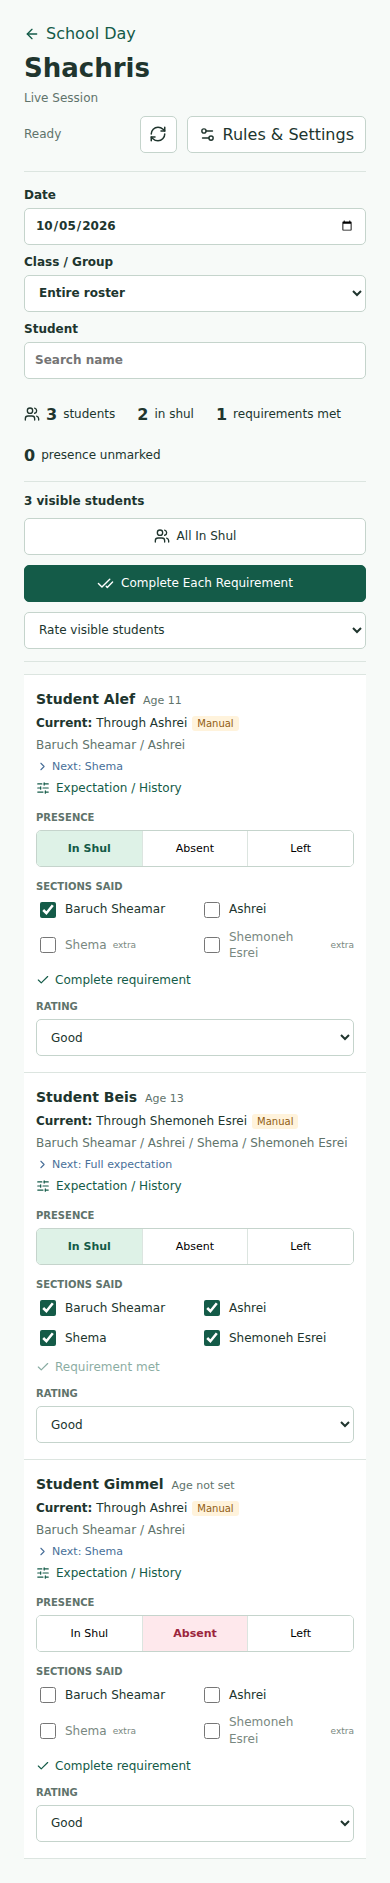
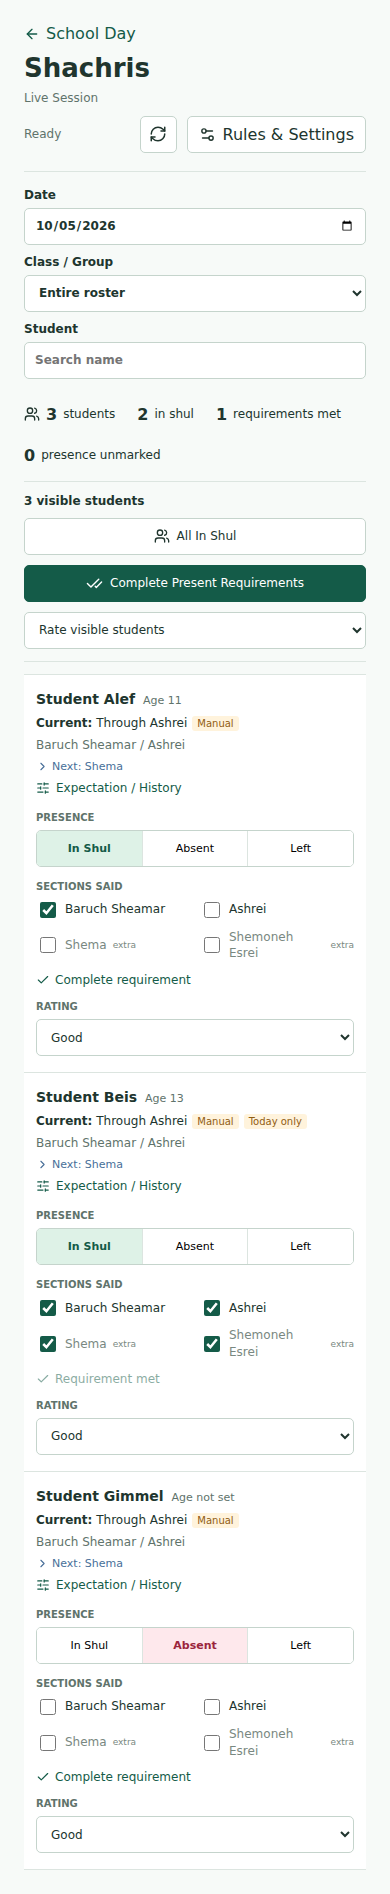
Limit Shachris bulk completion to present students and add temporary expectations

diff --git a/src/components/ShachrisWorkspace.tsx b/src/components/ShachrisWorkspace.tsx
@@ -2,7 +2,7 @@ import { useEffect, useRef, useState } from 'react'
 import { ArrowLeft, ArrowDown, ArrowUp, Check, CheckCheck, ChevronRight, Settings2, SlidersHorizontal, Users, X, RefreshCw } from 'lucide-react'
 import { supabase } from '../supabaseClient'
 import { loadShachrisProgression, loadShachrisSettings, openShachrisSession, saveShachrisExpectation, saveShachrisRecords, type ShachrisSession, type ShachrisSettings } from '../services/shachrisService'
-import { calculateAge, completeShachrisExpectation, hasMetShachrisExpectation, localDateKey, nextShachrisSection, type ShachrisAssignment, type ShachrisRecord } from '../utils/shachris'
+import { calculateAge, completePresentShachrisRequirements, completeShachrisExpectation, hasMetShachrisExpectation, localDateKey, nextShachrisSection, type ShachrisAssignment, type ShachrisRecord } from '../utils/shachris'
 import { isLeadershipRole } from '../utils/permissions'
 import ShachrisSettingsEditor from './ShachrisSettingsEditor'
 import './ShachrisWorkspace.css'
@@ -43,6 +43,7 @@ export default function ShachrisWorkspace({ students, classes, primaryClassIdsBy
   const [milestoneId, setMilestoneId] = useState('')
   const [requiredIds, setRequiredIds] = useState<string[]>([])
   const [reason, setReason] = useState('')
+  const [duration, setDuration] = useState<'today' | 'future'>('today')
   const [history, setHistory] = useState<ShachrisAssignment[]>([])
   const [historyLoading, setHistoryLoading] = useState(false)
   const [historyError, setHistoryError] = useState('')
@@ -56,6 +57,7 @@ export default function ShachrisWorkspace({ students, classes, primaryClassIdsBy
     && String(student.name || '').toLowerCase().includes(search.toLowerCase()))
   const visibleIds = new Set(visibleStudents.map(student => Number(student.id)))
   const visibleRecords = records.filter(record => visibleIds.has(record.student_id))
+  const presentRequirements = completePresentShachrisRequirements(visibleRecords)
   const locked = loading || saving || !canEdit || !session
   const today = date === localDateKey()
 
@@ -129,6 +131,7 @@ export default function ShachrisWorkspace({ students, classes, primaryClassIdsBy
     setMilestoneId(record.expectation.milestoneId)
     setRequiredIds([...record.expectation.sectionIds])
     setReason('')
+    setDuration('today')
   }
 
   async function changeExpectation(mode: 'manual' | 'default') {
@@ -139,12 +142,12 @@ export default function ShachrisWorkspace({ students, classes, primaryClassIdsBy
     setSaving(true)
     setError('')
     try {
-      const changed = await saveShachrisExpectation({ studentId: record.student_id, mode, milestoneId, sectionIds: requiredIds, reason, actorName, session, revision: record.revision })
+      const changed = await saveShachrisExpectation({ studentId: record.student_id, mode, milestoneId, sectionIds: requiredIds, reason, actorName, session, revision: record.revision, duration })
       setRecords(previous => previous.map(entry => entry.student_id === record.student_id ? changed.record : entry))
       setHistory(previous => [changed.assignment, ...previous])
       setMilestoneId(changed.record.expectation.milestoneId)
       setRequiredIds([...changed.record.expectation.sectionIds])
-      setStatus('Expectation saved for today and future sessions')
+      setStatus(duration === 'today' ? 'Expectation saved for today only' : 'Expectation saved for today and future sessions')
       setReason('')
     } catch (caught) {
       setError(errorMessage(caught))
@@ -171,7 +174,7 @@ export default function ShachrisWorkspace({ students, classes, primaryClassIdsBy
     {view === 'settings' && settings ? <ShachrisSettingsEditor key={settings.revision} settings={settings} canEdit={canManage} onSaved={saved => { setSettings(saved); setStatus('Settings saved. Existing sessions remain unchanged.') }} /> : <>
       <div className="sh-filters"><label>Date<input type="date" aria-label="Session date" value={date} max={localDateKey()} disabled={saving || loading} onChange={event => { if (event.target.value) { setDate(event.target.value); setEditingStudent(null) } }} /></label><label>Class / Group<select aria-label="Class or group" value={scope} disabled={saving} onChange={event => setScope(event.target.value)}><option value="all">Entire roster</option>{classes.map(entry => <option key={entry.id} value={`class:${entry.id}`}>{entry.name}</option>)}{instructionalGroups.filter(group => group.status !== 'archived').map(group => <option key={group.id} value={`group:${group.id}`}>{group.name || group.id}</option>)}</select></label><label className="sh-search">Student<input type="search" aria-label="Find student" placeholder="Search name" value={search} disabled={saving} onChange={event => setSearch(event.target.value)} /></label></div>
       <div className="sh-summary"><span><Users size={16} /><strong>{visibleRecords.length}</strong> students</span><span><strong>{visibleRecords.filter(record => record.presence === 'present').length}</strong> in shul</span><span><strong>{visibleRecords.filter(hasMetShachrisExpectation).length}</strong> requirements met</span><span><strong>{visibleRecords.filter(record => record.presence === 'unmarked').length}</strong> presence unmarked</span></div>
-      <div className="sh-bulk"><strong>{visibleRecords.length} visible students</strong><button className="sh-button" disabled={locked || !visibleRecords.length} onClick={() => void updateRecords(visibleRecords.filter(record => record.presence !== 'present').map(record => ({ ...record, presence: 'present' })))}><Users size={16} /> All In Shul</button><button className="sh-button sh-primary" disabled={locked || !visibleRecords.length} onClick={() => void updateRecords(visibleRecords.filter(record => !hasMetShachrisExpectation(record)).map(completeShachrisExpectation))}><CheckCheck size={17} /> Complete Each Requirement</button><select aria-label="Set rating for visible students" disabled={locked || !visibleRecords.length} value="" onChange={event => { const rating = event.target.value; void updateRecords(visibleRecords.map(record => ({ ...record, rating_id: rating }))) }}><option value="" disabled>Rate visible students</option>{config?.ratings.map(rating => <option key={rating.id} value={rating.id}>{rating.label}</option>)}</select></div>
+      <div className="sh-bulk"><strong>{visibleRecords.length} visible students</strong><button className="sh-button" disabled={locked || !visibleRecords.length} onClick={() => void updateRecords(visibleRecords.filter(record => record.presence !== 'present').map(record => ({ ...record, presence: 'present' })))}><Users size={16} /> All In Shul</button><button className="sh-button sh-primary" title="Complete requirements for visible students currently In Shul only" disabled={locked || !presentRequirements.length} onClick={() => void updateRecords(presentRequirements)}><CheckCheck size={17} /> Complete Present Requirements</button><select aria-label="Set rating for visible students" disabled={locked || !visibleRecords.length} value="" onChange={event => { const rating = event.target.value; void updateRecords(visibleRecords.map(record => ({ ...record, rating_id: rating }))) }}><option value="" disabled>Rate visible students</option>{config?.ratings.map(rating => <option key={rating.id} value={rating.id}>{rating.label}</option>)}</select></div>
       <div className="sh-roster" aria-busy={saving || loading}>
         <div className="sh-column-head"><span>Student / Expectation</span><span>Presence</span><span>Sections Said</span><span>Rating</span></div>
         {visibleStudents.map(student => {
@@ -180,7 +183,7 @@ export default function ShachrisWorkspace({ students, classes, primaryClassIdsBy
           const next = nextShachrisSection(config, record.expectation)
           const age = calculateAge(typeof student.date_of_birth === 'string' ? student.date_of_birth : null, date)
           return <article key={student.id} className="sh-student-row">
-            <div className="sh-student"><div className="sh-student-name">{student.name}<span>{age === null ? 'Age not set' : `Age ${age}`}</span></div><div className="sh-expectation"><strong>Current:</strong> {record.expectation.label}{record.expectation.source === 'manual' && <span className="sh-manual">Manual</span>}</div><div className="sh-required">{config.sections.filter(section => record.expectation.sectionIds.includes(section.id)).map(section => section.label).join(' / ')}</div><div className="sh-next"><ChevronRight size={13} />Next: {next?.label || 'Full expectation'}</div><button className="sh-adjust" title={`Change ${student.name}'s expectation`} onClick={() => openExpectation(student, record)} disabled={saving}><SlidersHorizontal size={14} /> Expectation / History</button></div>
+            <div className="sh-student"><div className="sh-student-name">{student.name}<span>{age === null ? 'Age not set' : `Age ${age}`}</span></div><div className="sh-expectation"><strong>Current:</strong> {record.expectation.label}{record.expectation.source === 'manual' && <span className="sh-manual">Manual</span>}{record.expectation.duration === 'today' && <span className="sh-manual">Today only</span>}</div><div className="sh-required">{config.sections.filter(section => record.expectation.sectionIds.includes(section.id)).map(section => section.label).join(' / ')}</div><div className="sh-next"><ChevronRight size={13} />Next: {next?.label || 'Full expectation'}</div><button className="sh-adjust" title={`Change ${student.name}'s expectation`} onClick={() => openExpectation(student, record)} disabled={saving}><SlidersHorizontal size={14} /> Expectation / History</button></div>
             <div className="sh-presence"><span className="sh-mobile-label">Presence</span><div className="sh-segments">{([['present', 'In Shul'], ['absent', 'Absent'], ['left', 'Left']] as const).map(([value, label]) => <button key={value} title={label} disabled={locked} aria-pressed={record.presence === value} className={record.presence === value ? `selected ${value}` : ''} onClick={() => void updateRecords([{ ...record, presence: record.presence === value ? 'unmarked' : value }])}>{label}</button>)}</div>{record.presence === 'unmarked' && <span className="sh-muted">Unmarked</span>}</div>
             <div className="sh-sections"><span className="sh-mobile-label">Sections Said</span><div className="sh-section-checks">{config.sections.map(section => <label key={section.id} className={record.expectation.sectionIds.includes(section.id) ? 'required' : 'extra'}><input type="checkbox" aria-label={`${student.name}: ${section.label}`} checked={record.said_section_ids.includes(section.id)} disabled={locked} onChange={event => void updateRecords([{ ...record, said_section_ids: event.target.checked ? [...record.said_section_ids, section.id] : record.said_section_ids.filter(id => id !== section.id) }])} />{section.label}{!record.expectation.sectionIds.includes(section.id) && <span>extra</span>}</label>)}</div><button disabled={locked || hasMetShachrisExpectation(record)} className={hasMetShachrisExpectation(record) ? 'sh-met' : 'sh-complete'} onClick={() => void updateRecords([completeShachrisExpectation(record)])}><Check size={14} />{hasMetShachrisExpectation(record) ? 'Requirement met' : 'Complete requirement'}</button></div>
             <div className="sh-rating"><label><span className="sh-mobile-label">Rating</span><select aria-label={`${student.name}: rating`} value={record.rating_id} disabled={locked} onChange={event => void updateRecords([{ ...record, rating_id: event.target.value }])}><option value="">Unrated</option>{config.ratings.map(rating => <option key={rating.id} value={rating.id}>{rating.label}</option>)}</select></label></div>
@@ -191,8 +194,9 @@ export default function ShachrisWorkspace({ students, classes, primaryClassIdsBy
       </div>
     </>}
     {editingStudent && config && currentRecord && <div className="sh-drawer-backdrop"><section className="sh-drawer" role="dialog" aria-modal="true" aria-label="Individual expectation" onKeyDown={event => { if (event.key === 'Escape' && !saving) setEditingStudent(null) }}><header><div><h2>{editingStudent.name}</h2><span>Individual Expectation</span></div><button className="sh-icon" title="Close expectation" aria-label="Close expectation" disabled={saving} onClick={() => setEditingStudent(null)}><X size={20} /></button></header>
+      <fieldset className="sh-duration-choice" disabled={locked || !today}><legend>Apply To</legend><label className="sh-check-label"><input type="radio" name="expectation-duration" value="today" checked={duration === 'today'} onChange={() => setDuration('today')} />Today only</label><label className="sh-check-label"><input type="radio" name="expectation-duration" value="future" checked={duration === 'future'} onChange={() => setDuration('future')} />Today and future</label></fieldset>
       <div className="sh-drawer-content">{error && <div className="sh-error" role="alert">{error}</div>}<label>Current milestone<select aria-label="Current milestone" value={milestoneId} disabled={locked || !today} onChange={event => selectMilestone(event.target.value)}>{config.milestones.map(milestone => <option key={milestone.id} value={milestone.id}>{milestone.label}</option>)}</select></label><div className="sh-progression-buttons"><button className="sh-button" disabled={locked || !today || selectedMilestoneIndex <= 0} onClick={() => selectMilestone(config.milestones[selectedMilestoneIndex - 1].id)}><ArrowDown size={16} /> Lower</button><button className="sh-button" disabled={locked || !today || selectedMilestoneIndex >= config.milestones.length - 1} onClick={() => selectMilestone(config.milestones[selectedMilestoneIndex + 1].id)}><ArrowUp size={16} /> Advance</button></div><fieldset disabled={locked || !today}><legend>Responsible To Say</legend>{config.sections.map(section => <label className="sh-check-label" key={section.id}><input type="checkbox" checked={requiredIds.includes(section.id)} onChange={event => setRequiredIds(previous => event.target.checked ? [...previous, section.id] : previous.filter(id => id !== section.id))} />{section.label}</label>)}</fieldset><label>Reason / Note<input aria-label="Expectation change reason" value={reason} disabled={locked || !today} onChange={event => setReason(event.target.value)} /></label><div className="sh-progression-buttons"><button className="sh-button sh-primary" disabled={locked || !today || !requiredIds.length} onClick={() => void changeExpectation('manual')}><Check size={16} /> Save Override</button><button className="sh-button" disabled={locked || !today} onClick={() => void changeExpectation('default')}><RefreshCw size={15} /> Use Default</button></div>{!today && <p className="sh-muted">Historical expectation</p>}
-      <h3>Progression History</h3>{historyLoading && <p>Loading...</p>}{historyError && <div role="alert" className="sh-error">{historyError}</div>}{!historyLoading && !historyError && !history.length && <p className="sh-muted">No individual changes yet</p>}{history.map(entry => <div className="sh-history-entry" key={entry.id}><strong>{entry.mode === 'default' ? 'Returned to default' : config.milestones.find(milestone => milestone.id === entry.milestone_id)?.label || entry.milestone_id}</strong><span>{entry.effective_date} / {entry.actor_name}</span>{entry.reason && <p>{entry.reason}</p>}{entry.section_ids && <span>{entry.section_ids.map(id => config.sections.find(section => section.id === id)?.label || id).join(' / ')}</span>}</div>)}</div>
+      <h3>Progression History</h3>{historyLoading && <p>Loading...</p>}{historyError && <div role="alert" className="sh-error">{historyError}</div>}{!historyLoading && !historyError && !history.length && <p className="sh-muted">No individual changes yet</p>}{history.map(entry => <div className="sh-history-entry" key={entry.id}><strong>{entry.mode === 'default' ? 'Returned to default' : config.milestones.find(milestone => milestone.id === entry.milestone_id)?.label || entry.milestone_id}</strong><span>{entry.effective_date} / {entry.actor_name} / {entry.duration === 'today' ? 'Today only' : 'Today and future'}</span>{entry.reason && <p>{entry.reason}</p>}{entry.section_ids && <span>{entry.section_ids.map(id => config.sections.find(section => section.id === id)?.label || id).join(' / ')}</span>}</div>)}</div>
     </section></div>}
   </div>
 }

diff --git a/src/utils/__tests__/shachris.test.ts b/src/utils/__tests__/shachris.test.ts
@@ -1,7 +1,7 @@
 import { describe, expect, it } from 'vitest'
-import { calculateAge, completeShachrisExpectation, hasMetShachrisExpectation, INITIAL_SHACHRIS_CONFIG, nextShachrisSection, resolveShachrisExpectation, validateShachrisConfig, type ShachrisAssignment, type ShachrisRecord } from '../shachris'
+import { calculateAge, completePresentShachrisRequirements, completeShachrisExpectation, hasMetShachrisExpectation, INITIAL_SHACHRIS_CONFIG, nextShachrisSection, resolveShachrisExpectation, validateShachrisConfig, type ShachrisAssignment, type ShachrisRecord } from '../shachris'
 
-const assignment: ShachrisAssignment = { id: 'override', student_id: 1, mode: 'manual', milestone_id: 'ashrei', section_ids: null, reason: '', actor_name: 'Rebbe', effective_date: '2026-10-05', created_at: '2026-10-05T12:00:00Z' }
+const assignment: ShachrisAssignment = { id: 'override', student_id: 1, mode: 'manual', milestone_id: 'ashrei', section_ids: null, reason: '', actor_name: 'Rebbe', effective_date: '2026-10-05', duration: 'future', created_at: '2026-10-05T12:00:00Z' }
 
 describe('Shachris individual requirements', () => {
   it('calculates age on the birthday without UTC date conversion', () => {
@@ -36,5 +36,14 @@ describe('Shachris individual requirements', () => {
     expect(validateShachrisConfig(INITIAL_SHACHRIS_CONFIG)).toBeNull()
     expect(validateShachrisConfig({ ...INITIAL_SHACHRIS_CONFIG, fallbackMilestoneId: 'missing' })).toBeTruthy()
     expect(validateShachrisConfig({ ...INITIAL_SHACHRIS_CONFIG, milestones: [{ id: 'bad', label: 'Bad', sectionIds: ['missing'] }] })).toBeTruthy()
+  })
+  it('bulk completes only present students, leaving absent, left, and unmarked students untouched', () => {
+    const records: ShachrisRecord[] = (['present', 'present', 'absent', 'left', 'unmarked'] as const).map((presence, index) => ({ session_id: 'today', student_id: index + 1, expectation: resolveShachrisExpectation(INITIAL_SHACHRIS_CONFIG, { ...assignment, milestone_id: index ? 'full' : 'start' }, 13, '8'), presence, said_section_ids: [], rating_id: 'ni', note: '', revision: 0, updated_by_name: '' }))
+    const changed = completePresentShachrisRequirements(records)
+    expect(changed.map(record => record.student_id)).toEqual([1, 2])
+    expect(changed.map(record => record.said_section_ids.length)).toEqual([1, 4])
+    expect(changed.every(record => record.presence === 'present' && record.rating_id === 'ni')).toBe(true)
+    expect(records.every(record => record.said_section_ids.length === 0)).toBe(true)
+    expect(completePresentShachrisRequirements(changed)).toEqual([])
   })
 })

diff --git a/src/services/__tests__/shachrisMigration.test.ts b/src/services/__tests__/shachrisMigration.test.ts
@@ -4,6 +4,7 @@ import { describe, expect, it } from 'vitest'
 import { INITIAL_SHACHRIS_CONFIG } from '../../utils/shachris'
 
 const migration = readFileSync(path.resolve(__dirname, '../../../supabase/migrations/20261005_shachris_checkpoint.sql'), 'utf8')
+const dobImport = readFileSync(path.resolve(__dirname, '../../../docs/20261005_shachris_dob_import.sql'), 'utf8')
 
 describe('Shachris additive foundation', () => {
   it('adds DOB without updating existing students or legacy Davening records', () => {
@@ -23,5 +24,18 @@ describe('Shachris additive foundation', () => {
     for (const table of ['settings', 'expectations', 'sessions', 'student_records', 'events']) {
       expect(migration).toContain(`alter table public.shachris_${table} enable row level security`)
     }
+  })
+  it('retains temporary changes but excludes them from future expectation resolution', () => {
+    expect(migration).toContain("duration text not null check (duration in ('today', 'future'))")
+    expect(migration).toContain("and (duration = 'future' or effective_date = p_date)")
+    expect(migration).toContain('p_duration text')
+  })
+  it('blocks DOB import until 16 reviewed entries and unique active matches are available', () => {
+    expect(dobImport).toContain('(select count(*) from shachris_dob_input) <> 16')
+    expect(dobImport).toContain('(select count(distinct id) from shachris_dob_matches) <> 16')
+    expect(dobImport).toContain('having count(matched.id) <> 1')
+    expect(dobImport).toContain('student.date_of_birth is not null and student.date_of_birth <> matched.dob')
+    expect(dobImport).toContain('student.date_of_birth is null')
+    expect(dobImport.indexOf('exactly 16 reviewed DOBs')).toBeLessThan(dobImport.indexOf('create temporary table shachris_dob_matches'))
   })
 })

diff --git a/src/components/ShachrisWorkspace.css b/src/components/ShachrisWorkspace.css
@@ -4,8 +4,8 @@
 .shachris button{cursor:pointer}
 .shachris button:disabled{cursor:default;opacity:.5}
 .shachris button:focus-visible,.shachris input:focus-visible,.shachris select:focus-visible{outline:2px solid #18826a;outline-offset:3px}
-.shachris input:not([type=checkbox]),.shachris select{border:1px solid #c5d4cc;border-radius:5px;background:#fff;color:var(--sh-ink);padding:8px 10px;min-height:37px;min-width:0;max-width:100%}
-.shachris input[type=checkbox]{accent-color:var(--sh-green);width:16px;height:16px;flex-shrink:0}
+.shachris input:not([type=checkbox]):not([type=radio]),.shachris select{border:1px solid #c5d4cc;border-radius:5px;background:#fff;color:var(--sh-ink);padding:8px 10px;min-height:37px;min-width:0;max-width:100%}
+.shachris input[type=checkbox],.shachris input[type=radio]{accent-color:var(--sh-green);width:16px;height:16px;flex-shrink:0}
 .sh-heading-actions,.shachris-heading,.sh-summary,.sh-filters,.sh-bulk,.sh-progression-buttons{display:flex;gap:10px;align-items:center;flex-wrap:wrap}
 .shachris-heading{justify-content:space-between;padding-bottom:18px;border-bottom:1px solid var(--sh-line)}
 .shachris-heading h1{font-size:26px;line-height:1.2;margin:7px 0 3px;font-weight:750}
@@ -57,6 +57,7 @@
 .sh-drawer-content{padding:22px;display:grid;gap:16px}
 .sh-drawer fieldset{border:1px solid var(--sh-line);border-radius:5px;padding:12px;display:grid;gap:10px;font-size:13px}
 .sh-drawer legend{font-size:12px;padding:0 5px}
+.sh-drawer .sh-duration-choice{margin:18px 22px 0;display:flex;gap:12px;flex-wrap:wrap}
 .sh-drawer h3{font-size:14px;margin:12px 0 0}
 .sh-history-entry{display:grid;gap:5px;border-bottom:1px solid var(--sh-line);padding-bottom:12px;font-size:12px}
 .sh-history-entry>span{color:var(--sh-muted);font-size:11px}

diff --git a/src/services/shachrisService.ts b/src/services/shachrisService.ts
@@ -29,13 +29,14 @@ export async function saveShachrisRecords(sessionId: string, records: ShachrisRe
 
 export async function saveShachrisExpectation(input: {
   studentId: number; mode: 'manual' | 'default'; milestoneId: string; sectionIds: string[] | null;
-  reason: string; actorName: string; session: ShachrisSession; revision: number;
+  reason: string; actorName: string; session: ShachrisSession; revision: number; duration: 'today' | 'future';
 }): Promise<{ assignment: ShachrisAssignment; record: ShachrisRecord }> {
   if (input.session.session_date !== localDateKey()) throw new Error('Progression changes are available for today only. Historical expectations stay unchanged.')
   const { data, error } = await supabase.rpc('shachris_set_expectation', {
     p_student_id: input.studentId, p_mode: input.mode, p_milestone_id: input.milestoneId,
     p_section_ids: input.sectionIds, p_reason: input.reason.trim(), p_actor_name: input.actorName,
     p_effective_date: input.session.session_date, p_session_id: input.session.id, p_record_revision: input.revision,
+    p_duration: input.duration,
   })
   if (error) throw error
   return data as { assignment: ShachrisAssignment; record: ShachrisRecord }

diff --git a/src/utils/shachris.ts b/src/utils/shachris.ts
@@ -13,6 +13,7 @@ export type ShachrisExpectation = {
   label: string
   sectionIds: string[]
   source: 'manual' | 'default'
+  duration?: 'today' | 'future'
 }
 export type ShachrisAssignment = {
   id: string
@@ -23,6 +24,7 @@ export type ShachrisAssignment = {
   reason: string
   actor_name: string
   effective_date: string
+  duration: 'today' | 'future'
   created_at: string
 }
 export type ShachrisRecord = {
@@ -87,6 +89,10 @@ export function nextShachrisSection(config: ShachrisConfig, expectation: Shachri
 
 export function completeShachrisExpectation(record: ShachrisRecord): ShachrisRecord {
   return { ...record, said_section_ids: Array.from(new Set([...record.said_section_ids, ...record.expectation.sectionIds])) }
+}
+
+export function completePresentShachrisRequirements(records: ShachrisRecord[]): ShachrisRecord[] {
+  return records.filter(record => record.presence === 'present' && !hasMetShachrisExpectation(record)).map(completeShachrisExpectation)
 }
 
 export function hasMetShachrisExpectation(record: ShachrisRecord): boolean {

diff --git a/docs/shachris-checkpoint.md b/docs/shachris-checkpoint.md
@@ -6,15 +6,15 @@ Branch: `yeshiva-ketana-secure`. Student Events and Weekly Record are not implem
 
 The Live Session, individual expectations/progression, basic settings, and editable regular DOB/age are implemented. The schema was exercised in an isolated PostgreSQL container. Browser verification used synthetic students and intercepted API responses, not school records.
 
-The migration and 14-student DOB import have NOT been applied to the school database: this environment has no Supabase management token or database connection. Real-school refresh/persistence and existing production RLS still need verification after access is restored. No Hebrew DOB or optional contact fields were added.
+The migration and DOB import have NOT been applied to the school database: this environment has no Supabase management token or database connection. The import contains only the 14 supplied DOBs and is blocked until 16 reviewed DOBs and 16 unique active student matches are available. The two missing students cannot be verified without the real roster. Real-school refresh/persistence and existing production RLS still need verification after access is restored. No Hebrew DOB or optional contact fields were added.
 
 ## Daily Workflow
 
 1. Open School Day > Shachris Live Session and select a class/group.
 2. Use All In Shul for the visible roster, correcting absent/left students individually.
-3. Use Complete Each Requirement to fill each visible student's own required sections. Presence and rating are unchanged. This applies to the visible roster, including any absent students; review exceptions.
+3. Use Complete Present Requirements to fill each visible In Shul student's own required sections. Absent, left, and unmarked students are excluded; presence and rating are unchanged. Individual section corrections remain available, but there is no bulk option including absent students.
 4. Select an overall rating independently, per student or for the visible roster.
-5. Open Expectation / History to advance, lower, choose required sections, save a manual override, or return to defaults. Changes apply to today and future sessions; earlier daily snapshots stay unchanged.
+5. Open Expectation / History to advance, lower, choose required sections, save a manual override, or return to defaults. Select Today only (the safe initial choice) or Today and future before saving. Temporary changes persist for today's session and remain in history, but tomorrow resumes the prior continuing assignment or default. Earlier daily snapshots stay unchanged.
 6. Changes save immediately. Saving temporarily locks edits; a failed write restores the previous values and shows an error. Reload retrieves saved records. Concurrent writes with stale revisions are rejected atomically.
 
 Settings apply when creating new dated sessions. Existing sessions keep their settings and expectation snapshots. Section and milestone IDs cannot be removed through the settings service.
@@ -25,11 +25,34 @@ Settings apply when creating new dated sessions. Existing sessions keep their se
 - `npm run dev -- --host 0.0.0.0 --port 5190 --strictPort`
 - `node src/components/__tests__/shachris.browser.mjs`
 - Local SQL fixtures: `src/services/__tests__/fixtures/shachrisDatabaseSetup.sql` and `shachrisDatabaseChecks.sql`, run before/after the migration in an empty isolated test database only. Their permission helpers are test stubs, not production permission verification.
+- `node src/services/__tests__/fixtures/shachrisDobImportChecks.mjs` tests the import on synthetic local rows only, including the incomplete-14 gate and the 16-entry success/missing/duplicate/conflict cases. Never point this script at the school database.
 - Desktop/mobile/progression screenshots are alongside this document. They contain synthetic students.
 - Production build passes. Repository typecheck currently reports two unrelated errors in the unchanged `teachingModeUtils.test.ts`.
 
 ## Deployment Gate
 
+### Restore Access Without Applying SQL
+
+1. Sign into the Supabase account that can manage project `ednjpqtuttutoatahorn` (the secure dashboard's backing project, historically named `school-dashboard-test`). At https://supabase.com/dashboard/account/tokens, create a scoped personal access token restricted to that project. Grant Project Settings Read and Database Read-write for the reviewed targeted migration/import workflow. Do not grant unrelated organization, billing, storage, or function access.
+2. Run the following yourself in the VS Code terminal. Paste the token only into the hidden terminal prompt, never into chat, source files, or `VITE_*` variables:
+
+```bash
+read -rsp 'Supabase scoped access token: ' SUPABASE_ACCESS_TOKEN
+printf '\n'
+export SUPABASE_ACCESS_TOKEN
+npx --yes supabase@latest login --token "$SUPABASE_ACCESS_TOKEN"
+```
+
+3. Tell the assistant that login is complete. The workspace is already linked to `ednjpqtuttutoatahorn`; do not relink it to another project. The first database command is read-only:
+
+```bash
+npx --yes supabase@latest db query --linked --file docs/20261005_shachris_roster_review.sql
+```
+
+4. Confirm the real active roster contains 16 students, resolve exact-name discrepancies against real IDs, and identify the two missing DOBs. Supply those DOBs before completing/reviewing the import. No fuzzy matching or guessed dates.
+
+### Targeted Rollout After Review
+
 After restoring Supabase access, verify the linked project is the secure dashboard's backing database and inspect the existing schema/permissions. Apply only `supabase/migrations/20261005_shachris_checkpoint.sql`; do not use an unrestricted `db push`, because unrelated migrations are pending.
 
-Review `docs/20261005_shachris_dob_import.sql` against actual student IDs before executing. It matches explicit supplied/reversed names, requires exactly 14 unique active matches, and refuses conflicting existing DOBs. Do not add fuzzy name matching. Verify unrelated fields/history counts are unchanged and test refresh/save with authorized and read-only accounts before claiming the checkpoint is live.
+Review `docs/20261005_shachris_dob_import.sql` against actual student IDs before executing. It matches explicit supplied/reversed names, requires exactly 16 supplied entries and 16 unique active matches, and refuses conflicting existing DOBs. Do not apply it while the two DOBs are missing. Verify unrelated fields/history counts are unchanged and test refresh/save with authorized and read-only accounts before claiming the checkpoint is live. Use targeted `db query --linked --file <reviewed-file>` commands only; the import stays paused until review is complete.
